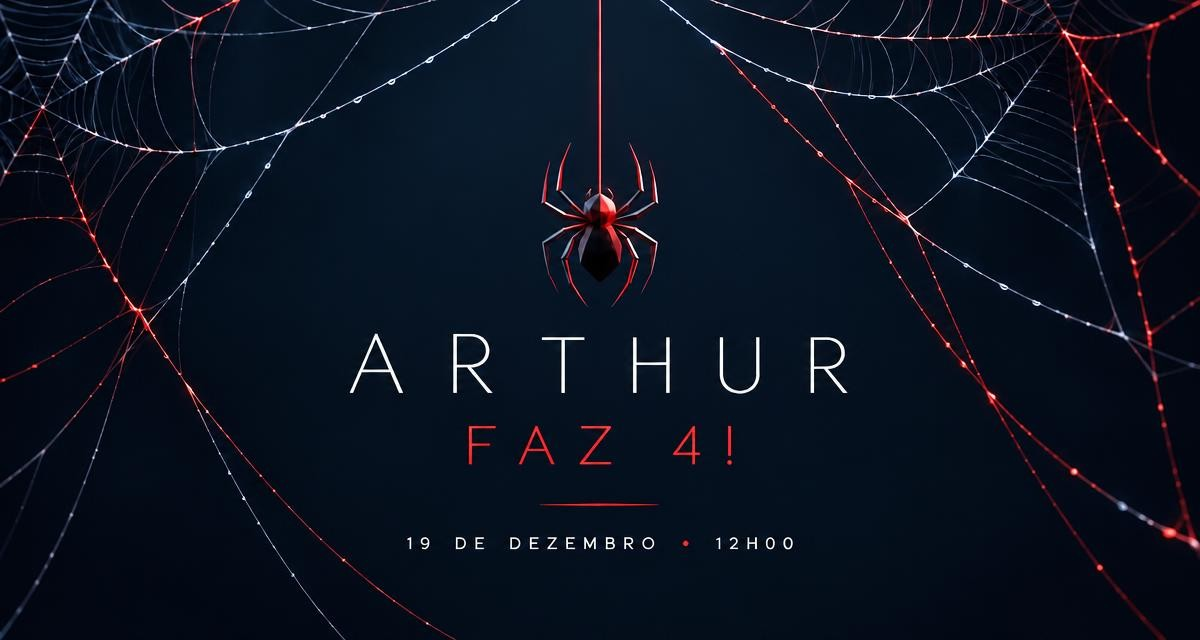
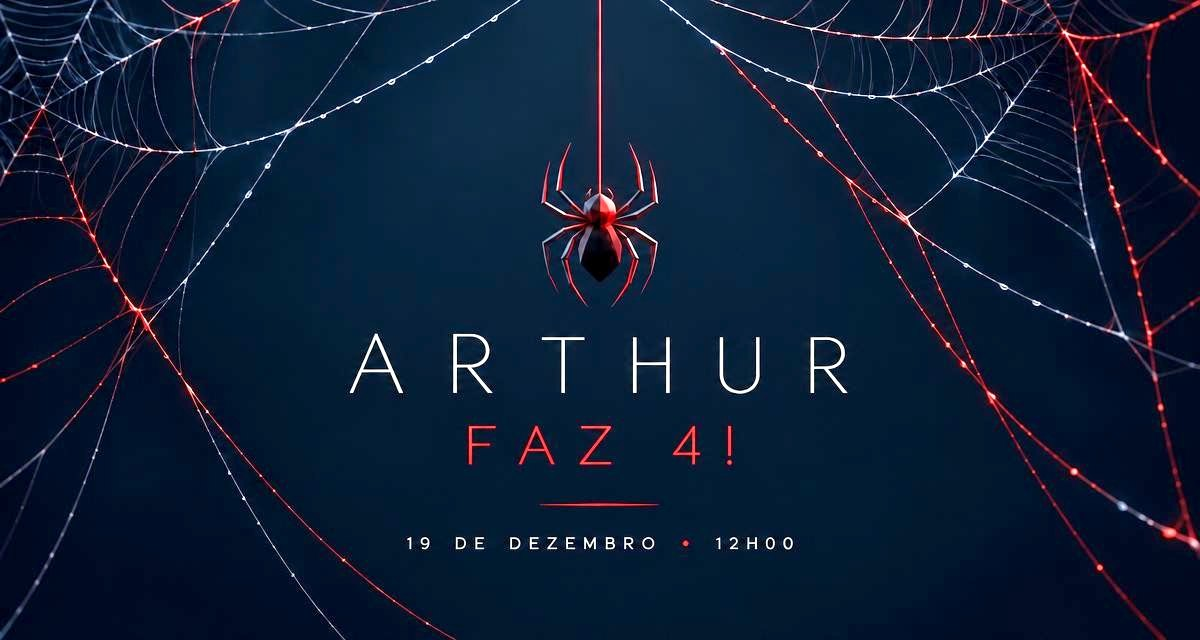
Changes

diff --git a/src/styles.css b/src/styles.css
@@ -69,13 +69,13 @@
 
 :root {
   --radius: 0.625rem;
-  --background: oklch(0.24 0.062 254);
+  --background: oklch(0.34 0.07 254);
   --foreground: oklch(0.98 0 0);
   --web-red: oklch(0.55 0.22 27);
   --web-red-bright: oklch(0.65 0.25 27);
-  --web-blue: oklch(0.42 0.12 250);
-  --web-ink: oklch(0.25 0.065 253);
-  --web-deep: oklch(0.18 0.05 258);
+  --web-blue: oklch(0.55 0.13 250);
+  --web-ink: oklch(0.35 0.075 253);
+  --web-deep: oklch(0.29 0.065 256);
   --shadow-glow: 0 0 40px color-mix(in oklab, var(--web-red) 35%, transparent);
   --font-display: "Unbounded", system-ui, sans-serif;
   --font-body: "Space Grotesk", system-ui, sans-serif;
